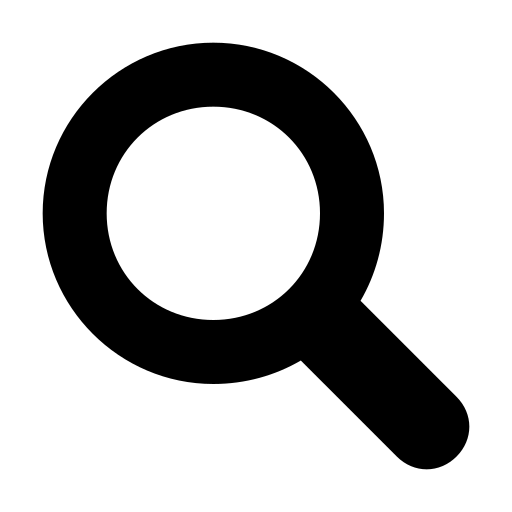
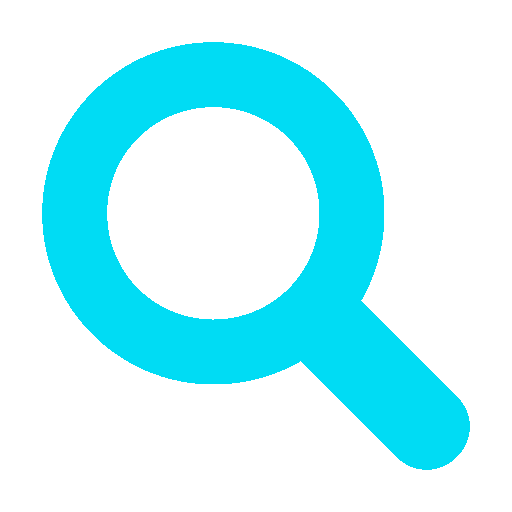
no message

Changed region(s): [[0.0625, 0.0625, 0.9375, 0.9375]]

diff --git a/src/main/webapp/resources/js/main.js b/src/main/webapp/resources/js/main.js
@@ -165,15 +165,20 @@ $("#community-checkbox").change(function() {
 });
 
 $("#search-box").focus(function() {
-    $("#search-box").css({ "width": "600px",
-                           "height": "60px",
+    $("#search img").css("filter", "saturate(1) invert(0) drop-shadow(0 0 10px rgba(0, 220, 244, 0.2))");
+    $("#search-box").css({ "width": "550px",
                            "border-color": "rgb(0, 220, 244)",
                            "filter": "drop-shadow(0 0 10px rgba(0, 220, 244, 0.2))" });
 });
 
 $("#search-box").blur(function() {
+    $("#search img").css("filter", "");
     $("#search-box").css({ "width": "",
-                           "height": "",
                            "border-color": "",
                            "filter": "" });
 });
+
+function searchValidate() {
+    if ($("#search-box").val() == "") return false;
+    return true;
+}

diff --git a/src/main/webapp/resources/css/index.css b/src/main/webapp/resources/css/index.css
@@ -36,17 +36,17 @@ main {
 	align-items: center;
 }
 
-#search img {
+#search-img {
 	width: 80px;
 	margin-bottom: 10px;
-	filter: invert(0.7);
+	filter: saturate(0) invert(0) drop-shadow(0 0 0 transparent);
 	cursor: pointer;
 	transition-duration: 1.2s;
-} html.dark #search img {
-	filter: invert(0.5);
+} html.dark #search-img {
+	filter: saturate(0) invert(0.5) drop-shadow(0 0 0 transparent);
 }
 
-#search input {
+#search-box {
 	width: 500px;
 	height: 50px;
 	border-radius: 50px;
@@ -57,8 +57,12 @@ main {
 	font-size: 1.2rem;
 	text-align: center;
 	transition-duration: 1.2s;
-} html.dark #search input {
+} html.dark #search-box {
 	border: 8px solid rgb(120, 120, 120);
+}
+
+#search-box:focus::-webkit-input-placeholder {
+	color: transparent;
 }
 
 #search-button {
